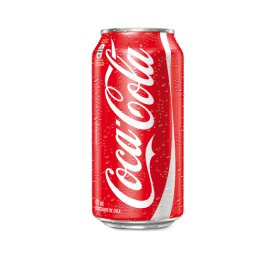
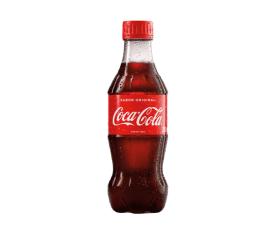
tela de produtos

Changed region(s): [[0.3223, 0.0596, 0.674, 0.9234]]

diff --git a/front/antlia-app/src/pages/MktScreen/MktScreen.tsx b/front/antlia-app/src/pages/MktScreen/MktScreen.tsx
@@ -1,26 +1,40 @@
 import { Rubik_400Regular, Rubik_600SemiBold, Rubik_700Bold, useFonts } from '@expo-google-fonts/rubik';
-import { Box, Center, NativeBaseProvider, ScrollView, VStack, Image } from 'native-base';
+import { Box, NativeBaseProvider, ScrollView, VStack, Image, Text } from 'native-base';
 import { Row } from 'react-native-flexbox-grid';
 import { FlatGrid } from 'react-native-super-grid';
+
+const coquinha = ('../../assets/coquinha.png')
+const imageCoca = ('../../assets/coca.png')
+
 import {
     FlatList,
     KeyboardAvoidingView,
-    StyleSheet
+    Pressable,
 } from 'react-native';
 
 import { ButtonFilter } from '../../components/ButtonFilter/ButtonFilter';
 import { CardItem } from '../../components/CardItem/CardItem';
 import Header from '../../components/Header/Header';
 
+const data = [
+    { title: 'Coca Cola lata', image: imageCoca, valor: '3,49', quantidade: '350' },
+    { title: 'Sprite Lata', image: imageCoca, valor: '3,49', quantidade: '350' },
+    { title: 'Coquinha', image: coquinha, valor: '1,49', quantidade: '' },
+    { title: 'Fanta Uva', image: imageCoca, valor: '3,49', quantidade: '' },
+    { title: 'Coca Cola lata', image: imageCoca, valor: '3,49', quantidade: '350' },
+    { title: 'Coca Cola lata', image: imageCoca, valor: '3,49', quantidade: '' },
+]
+
+const text=() =>{
+    window.alert('pagina de carrinho')
+}
 
 export default function MktScreen() {
-
     const [fontLoaded] = useFonts({
         Rubik_400Regular,
         Rubik_600SemiBold,
         Rubik_700Bold
     });
-
     if (!fontLoaded) {
         return null;
     }
@@ -32,9 +46,9 @@ export default function MktScreen() {
             >
                 {/* Header que ainda vai ser feito */}
                 <Header />
-                <Box py="4" height='100%' width="100%" backgroundColor="#E9E9E9" alignItems='center'>
+                <Box py="4" height='85%' width="100%" backgroundColor="#E9E9E9" alignItems='center'>
                     <VStack justifyContent="space-between" w='90%' >
-                        <Box display={'flex'} flexDirection='row' justifyContent='space-around' >
+                        <Box display='flex' flexDirection='row' justifyContent='space-around' >
                             <ButtonFilter
                                 image=''
                                 title='LANCHES'
@@ -49,13 +63,35 @@ export default function MktScreen() {
                             />
                         </Box>
                         <ScrollView >
-                            <Row style={{ flex: 1, flexDirection: 'row', flexWrap: 'wrap'}}>
-                                <CardItem title={'Coca Cola Lata'} image={'Coquinha'} valor='3,49' quantidade='350' />
-                                <CardItem title={''} image={''} quantidade='350' />
-                                <CardItem title={''} image={''} />
+                            <Row style={{ display: 'flex', flexDirection: 'row', flexWrap: 'wrap' }}>
+                                <FlatList
+                                    data={data}
+                                    keyExtractor={(item, index) => index.toString()}
+                                    renderItem={({ item }) => (
+                                        <CardItem
+                                            title={item.title}
+                                            image={item.image}
+                                            valor={item.valor}
+                                            quantidade={item.quantidade}
+                                        />
+                                    )}
+                                />
                             </Row>
                         </ScrollView>
                     </VStack>
+                </Box>
+                <Box bg='#ffbf1a' w='100%'  >
+                    <Pressable display='flex' flexDirection='row' w='100%' justifyContent={'flex-end'} alignItems={'center'} onPress={text}  >
+                        <Text style={{ fontFamily: 'Rubik_600SemiBold' }} fontSize='25' p='5'>
+                            CONTINUAR
+                        </Text>
+                        <Box bg="#fff" h='100' w='100' alignItems={'center'} display={'flex'} justifyContent={'center'}>
+                            <Image style={{ height: 50, width: 50 }}
+                                source={require('../../assets/VectorBCar.png')}
+                                alt="Vector Bag"
+                            />
+                        </Box>
+                    </Pressable>
                 </Box>
             </KeyboardAvoidingView>
         </NativeBaseProvider>

diff --git a/front/antlia-app/src/components/CardItem/CardItem.tsx b/front/antlia-app/src/components/CardItem/CardItem.tsx
@@ -1,23 +1,18 @@
 import { Rubik_400Regular, Rubik_600SemiBold, useFonts, Rubik_700Bold } from '@expo-google-fonts/rubik';
-import { Box, HStack, NativeBaseProvider, Pressable, Text, VStack, Image } from 'native-base';
-import React from 'react';
-
-import {
-    KeyboardAvoidingView,
-    StatusBar,
-    View,
-} from 'react-native';
+import { Box, HStack, NativeBaseProvider, Pressable, Text, VStack, Image, useToast } from 'native-base';
+import React, { useState } from 'react';
 
 interface CardItemProps {
     title: string;
     image: string;
-    link?: string;
+    // link?: string;
     quantidade?: string;
     valor?: string;
-
 }
+// const image = require('../../assets/coca.png')
 
-export const CardItem: React.FC<CardItemProps> = ({ title, image, link, valor, quantidade }) => {
+export const CardItem: React.FC<CardItemProps> = ({ title, image, valor, quantidade, }) => {
+    const toast = useToast();
     const buttonStyles = {
         h3: title,
         image: image,
@@ -25,30 +20,42 @@ export const CardItem: React.FC<CardItemProps> = ({ title, image, link, valor, q
         quantidade: quantidade
     };
 
-    if (quantidade === '') {
-        quantidade = 'Garrafinha';
-    } else {
-        quantidade = quantidade + ' ML'
-    }
+    // if (quantidade === '') {
+    //     quantidade = 'Garrafinha';
+    // }{
+    //     quantidade = quantidade + ' ML'
+    // }
+
+    const [isPressed, setIsPressed] = useState(false);
+    const handlePress = () => {
+        setIsPressed(true);
+        toast.show({
+            title: `${title} adicionado ao carrinho!`,
+            placement: 'top-right'
+            // render: () => {
+            //     return <Box bg="emerald.500" px="2" py="1" rounded="sm" mb={5}>
+            //         {`${title} adicionado ao carrinho!`}
+            //     </Box>;
+            // }
+        });
+    };
+    quantidade === '' ? quantidade = 'Garrafinha' : quantidade = quantidade + ' ML'
+    const valorText = isPressed ? 'Adicionado' : `R$: ${valor}`;
 
     return (
         <NativeBaseProvider>
-            <Pressable h='250' w='200' onPress={() => window.alert(`${title} adicionado ao carrinho!`)} rounded="8" bg="#ffff" marginBottom={10} shadow="9"  >
-                <HStack justifyContent="space-around" alignItems={'center'} display='flex' flexDirection='column' >
-                    {/* <Image style={{ height: 120, width: 120 }}
-                    source={require('../../assets/Vectorcar.png')}
-                    alt="Vector Bag"
-                /> */}
-                    <Image src={image} alt="icone" />
-                    {/* <img src={image} alt="icone" /> */}
-                    <Text color="#000" style={{ fontFamily: 'Rubik_600SemiBold' }} fontSize="15">
-                        {title}
+            <Pressable h='250' w='200' onPress={handlePress} rounded="8" bg="#ffff" marginBottom={10} shadow="9" display='flex' flexDirection='column' justifyContent="space-around">
+                <HStack alignItems={'center'} flexDirection='column' >
+                    <Image style={{ height: 120, width: 120 }}
+                        // src={image}
+                        source={require('../../assets/coca.png')}
+                        alt="Vector Bag"
+                    />
+                    <Text color="#000" style={{ fontFamily: 'Rubik_600SemiBold' }} fontSize="15" textAlign={'center'}>
+                        {title}{'\n'}{quantidade}
                     </Text>
-                    <Text style={{ fontFamily: 'Rubik_600SemiBold' }}>
-                        {quantidade}
-                    </Text>
-                    <Text>
-                        {`R$: ${valor}`}
+                    <Text bg={isPressed ? '#FFF' : "#ffbf1A"} color={isPressed ? '#22831A' : "#000"} borderWidth="0" w='4/6' rounded="lg" textAlign={'center'} style={{ fontFamily: 'Rubik_700Bold' }}>
+                        {valorText}
                     </Text>
                 </HStack>
             </Pressable>
